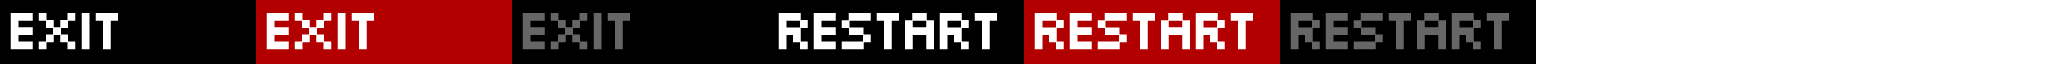
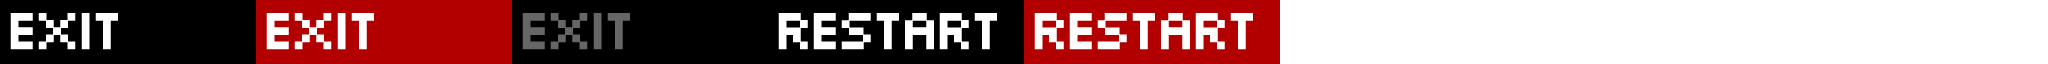
Working on tweaking menus

Changed region(s): [[0.625, 0.0, 0.75, 1.0]]

diff --git a/src/game.go b/src/game.go
@@ -70,9 +70,16 @@ func NewGame(sys *twodee.System, win *twodee.Window) (game *Game, err error) {
 		Camera: twodee.NewCamera(0, 0, 71, 40),
 		Levels: []string{
 			"data/level-dev.json",
+			"data/level-dev.json",
+			"data/level-dev.json",
+			"data/level-dev.json",
+			"data/level-dev.json",
+			"data/level-dev.json",
+			"data/level-dev.json",
 		},
-		state: STATE_SPLASH,
-		exit:  make(chan bool, 1),
+		CurrentLevel: 0,
+		state:        STATE_SPLASH,
+		exit:         make(chan bool, 1),
 	}
 	if err = sys.Open(win); err != nil {
 		err = fmt.Errorf("Couldn't open window: %v", err)
@@ -97,7 +104,6 @@ func NewGame(sys *twodee.System, win *twodee.Window) (game *Game, err error) {
 		return
 	}
 	game.SelectMenu.SetSelectable(0, true)
-	game.SelectMenu.SetSelectable(1, true)
 	game.OptionMenu = NewMenu(game.System)
 	log.Printf("Loading option menu\n")
 	if err = twodee.LoadTiledMap(game.System, game.OptionMenu, "data/menu-options.json"); err != nil {
@@ -180,6 +186,7 @@ func (g *Game) handleKeys() {
 			case key == twodee.KeySpace && state == 0:
 				g.SetLevel(g.SelectMenu.GetSelection())
 			case key == twodee.KeyEsc && state == 0:
+				g.OptionMenu.SetSelection(0)
 				g.OptionMenu.SetSelectable(1, false)
 				g.laststate = g.state
 				g.state = STATE_OPTION
@@ -191,6 +198,7 @@ func (g *Game) handleKeys() {
 			case key == twodee.KeySpace && state == 0:
 				g.state = STATE_SELECT
 			case key == twodee.KeyEsc && state == 0:
+				g.OptionMenu.SetSelection(0)
 				g.OptionMenu.SetSelectable(1, false)
 				g.laststate = g.state
 				g.state = STATE_OPTION
@@ -281,26 +289,31 @@ func (g *Game) Run() (err error) {
 
 func (g *Game) Draw() {
 	var (
-		now time.Time
-		fps float64
+		now    = time.Now()
+		fps    = 1.0 / now.Sub(g.lastpaint).Seconds()
+		option = false
+		state  = g.state
 	)
-	now = time.Now()
-	fps = 1.0 / now.Sub(g.lastpaint).Seconds()
-
 	g.Camera.SetProjection()
-	switch g.state {
+	if state == STATE_OPTION {
+		state = g.laststate
+		option = true
+	}
+	switch state {
 	case STATE_SPLASH:
 		g.Splash.Draw()
 	case STATE_SELECT:
 		g.SelectMenu.Draw()
 	case STATE_SUMMARY:
 		g.Summary.Draw()
-	default:
+	case STATE_GAME:
 		if g.Level != nil {
 			g.Level.Draw()
 			g.Font.Printf(0, 40, "%.1f seconds", g.Level.Player.Elapsed.Seconds())
 			g.Font.Printf(0, 10, "FPS %.1f", fps)
 		}
+	}
+	if option {
 		if g.state == STATE_OPTION {
 			g.OptionMenu.Draw()
 		}
